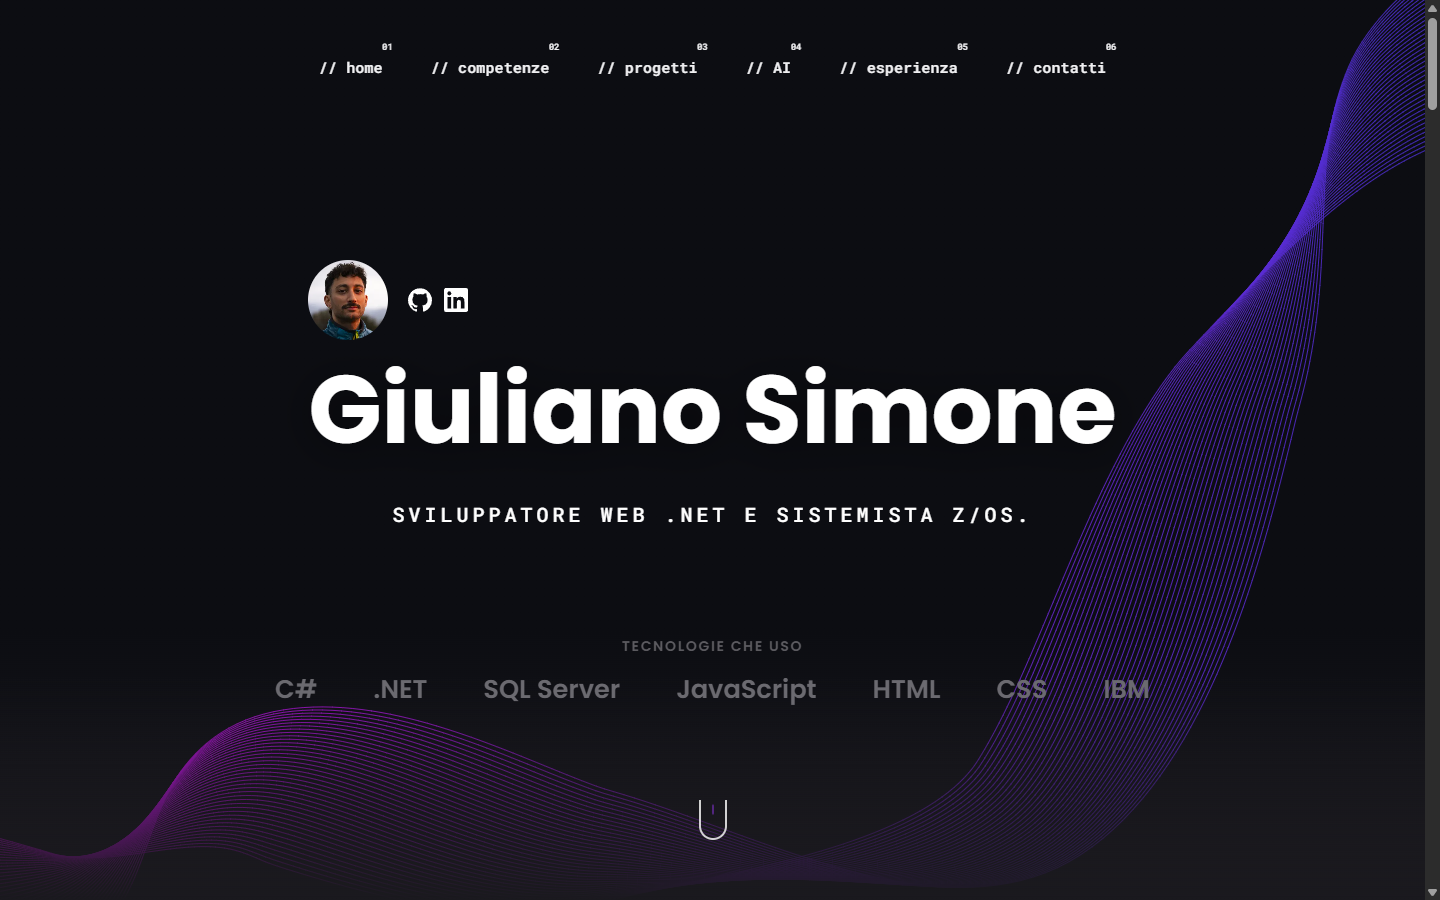
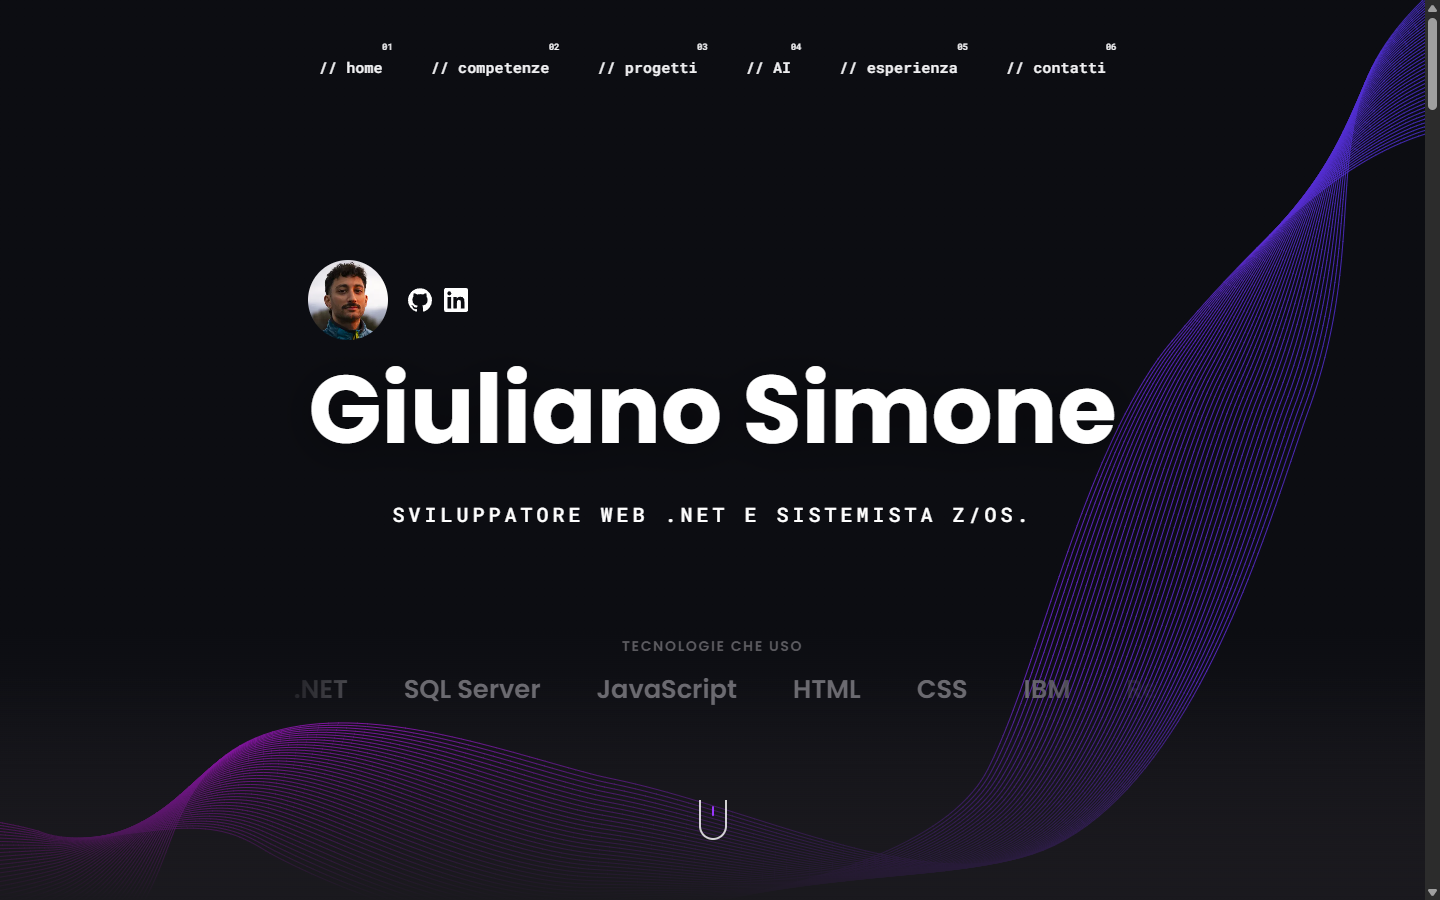
Fa scorrere le tecnologie della hero su una riga
L'elenco "Tecnologie che uso" non va più a capo: scorre da solo verso
sinistra in un ciclo continuo, sfuma ai due lati e si ferma al passaggio
del mouse. Con movimento ridotto resta fermo e si scorre a mano.
Aggiunge React, Next.js, TypeScript e git all'elenco e rifà lo
screenshot del portfolio.

Changed region(s): [[0.0, 0.0, 1.0, 0.9644]]

diff --git a/src/components/sections/hero.tsx b/src/components/sections/hero.tsx
@@ -4,6 +4,7 @@ import { HeroWaves } from "@/components/hero-waves";
 import { GitHubIcon, LinkedInIcon } from "@/components/icons";
 import { Section } from "@/components/section";
 import { hero, site } from "@/lib/site";
+import { cn } from "@/lib/utils";
 
 const initials = site.name
   .split(" ")
@@ -81,13 +82,28 @@ export function Hero() {
         <p className="text-sm font-semibold tracking-[0.12em] text-faint uppercase">
           {hero.technologiesLabel}
         </p>
-        <ul className="mt-4 flex flex-wrap items-center justify-center gap-x-10 gap-y-2 sm:gap-x-14">
-          {hero.technologies.map((technology) => (
-            <li key={technology} className="font-heading text-xl font-semibold text-[#6b6a70] sm:text-[1.6rem]">
-              {technology}
-            </li>
-          ))}
-        </ul>
+        {/* Riga che scorre verso sinistra e sfuma ai lati; si ferma al passaggio del mouse.
+            Con movimento ridotto resta ferma e si scorre a mano. */}
+        <div className="group mt-4 w-full max-w-4xl overflow-hidden mask-x-from-85% motion-reduce:overflow-x-auto motion-reduce:[scrollbar-width:none]">
+          <div className="flex w-max motion-safe:animate-marquee motion-safe:group-hover:[animation-play-state:paused]">
+            {[false, true].map((isCopy) => (
+              <ul
+                key={String(isCopy)}
+                aria-hidden={isCopy || undefined}
+                className={cn("flex shrink-0 gap-10 pr-10 sm:gap-14 sm:pr-14", isCopy && "motion-reduce:hidden")}
+              >
+                {hero.technologies.map((technology) => (
+                  <li
+                    key={technology}
+                    className="font-heading text-xl font-semibold whitespace-nowrap text-[#6b6a70] sm:text-[1.6rem]"
+                  >
+                    {technology}
+                  </li>
+                ))}
+              </ul>
+            ))}
+          </div>
+        </div>
       </div>
 
       {/* Indicatore di scorrimento, al posto dell'animazione Lottie del riferimento */}

diff --git a/src/app/globals.css b/src/app/globals.css
@@ -49,11 +49,19 @@
   --color-faint: var(--faint);
 }
 
-/* Schede fluttuanti, rivelazione all'ingresso e indicatore di scorrimento */
+/* Schede fluttuanti, rivelazione all'ingresso, indicatore di scorrimento e tecnologie della hero */
 @theme {
   --ease-float: cubic-bezier(0.22, 1, 0.36, 1);
   --animate-card-breathe: card-breathe 4s ease-in-out 500ms infinite;
   --animate-scroll-hint: scroll-hint 1.8s ease-in-out infinite;
+  --animate-marquee: marquee 40s linear infinite;
+
+  /* La traccia contiene due copie dell'elenco: spostarla di metà la riporta al punto di partenza */
+  @keyframes marquee {
+    to {
+      transform: translateX(-50%);
+    }
+  }
 
   @keyframes card-breathe {
     0%,

diff --git a/src/lib/site.ts b/src/lib/site.ts
@@ -30,7 +30,7 @@ export const hero = {
   subtitle: "Sviluppatore Web .NET e Sistemista z/OS.",
   // Al posto di "As featured in" del riferimento
   technologiesLabel: "Tecnologie che uso",
-  technologies: ["C#", ".NET", "SQL Server", "JavaScript", "HTML", "CSS", "IBM"],
+  technologies: ["C#", ".NET", "SQL Server", "JavaScript", "HTML", "CSS", "IBM", "React", "Next.js", "Typescript", "git"],
 };
 
 // Presentazione estesa: oggi non compare nel sito, la teniamo per usi futuri

diff --git a/docs/2026-10-22-tecnologie-a-scorrimento.md b/docs/2026-10-22-tecnologie-a-scorrimento.md
@@ -1,0 +1,55 @@
+# Tecnologie della hero su una riga a scorrimento
+
+Data: 2026-10-22
+Stato: approvato e implementato
+
+## Obiettivo
+
+Oggi l'elenco "Tecnologie che uso" della hero (`hero.technologies` in `src/lib/site.ts`) va a capo su più righe (`flex-wrap`). Lo vogliamo invece:
+
+- su **una sola riga** che **scorre da sola verso sinistra**, in un ciclo continuo;
+- con una **dissolvenza su entrambi i lati**, così le voci compaiono e spariscono gradualmente invece di essere tagliate di netto.
+
+I contenuti restano in `site.ts` e non cambiano.
+
+La prima proposta prevedeva lo scorrimento con la rotella del mouse; dopo la revisione è stata scartata a favore dello scorrimento automatico.
+
+## Approccio tecnico
+
+### Scorrimento automatico
+
+È un "marquee" in solo CSS, quindi la hero resta un Server Component e non serve JavaScript:
+
+- l'elenco è ripetuto due volte in fila dentro una traccia larga quanto il contenuto (`w-max`). La seconda copia ha `aria-hidden`, così i lettori di schermo leggono le tecnologie una volta sola;
+- la traccia si sposta da `translateX(0)` a `translateX(-50%)`, cioè di esattamente una copia, con velocità costante e in ciclo infinito. Alla fine del ciclo la seconda copia si trova dove era la prima, quindi il salto non si vede;
+- ogni copia ha in fondo uno spazio uguale a quello tra le voci, così anche il punto di giunzione ha la stessa spaziatura;
+- l'animazione è definita in `globals.css` come `--animate-marquee`, accanto a quelle già presenti.
+
+### Pausa
+
+Al passaggio del mouse lo scorrimento si ferma, così si può leggere una voce. Un contenuto che si muove da solo per più di 5 secondi deve poter essere fermato (WCAG 2.2.2).
+
+### Dissolvenza
+
+Le utility `mask-x-from-*` di Tailwind v4 applicano al contenitore una maschera a gradiente che rende trasparenti le voci verso i due bordi. È una maschera e non un gradiente colorato sopra, quindi funziona con il nastro animato del canvas dietro.
+
+### Movimento ridotto
+
+Con `prefers-reduced-motion` l'animazione non parte, la seconda copia si nasconde e la riga diventa scorrevole a mano (touch, trackpad, Shift + rotella), con la barra nascosta.
+
+### Mobile
+
+La riga occupa tutta la larghezza disponibile, meno i margini della hero, e il testo è più piccolo (`text-xl` contro `text-[1.6rem]`). La dissolvenza è in percentuale, quindi si adatta alla larghezza. Verificato a 375 px: le voci restano leggibili, la riga non si sovrappone all'indicatore di scorrimento e la pagina non scorre in orizzontale.
+
+## File
+
+| File | Modifica |
+| --- | --- |
+| `src/components/sections/hero.tsx` | L'`<ul>` con `flex-wrap` diventa una riga che scorre, con l'elenco ripetuto due volte |
+| `src/app/globals.css` | Nuova animazione `marquee` |
+| `public/projects/portfolio-desktop.png` | Rifatto con la nuova riga delle tecnologie |
+
+## Scelte aperte
+
+1. **Larghezza della riga.** Partita da `max-w-3xl` (768 px) con dissolvenza sul 20% per lato; dopo averla vista, l'utente l'ha chiesta leggermente più ampia: ora `max-w-4xl` (896 px) con dissolvenza sul 15% per lato.
+2. **Velocità.** Per ora un giro completo in 40 secondi; si regola in `--animate-marquee`.
